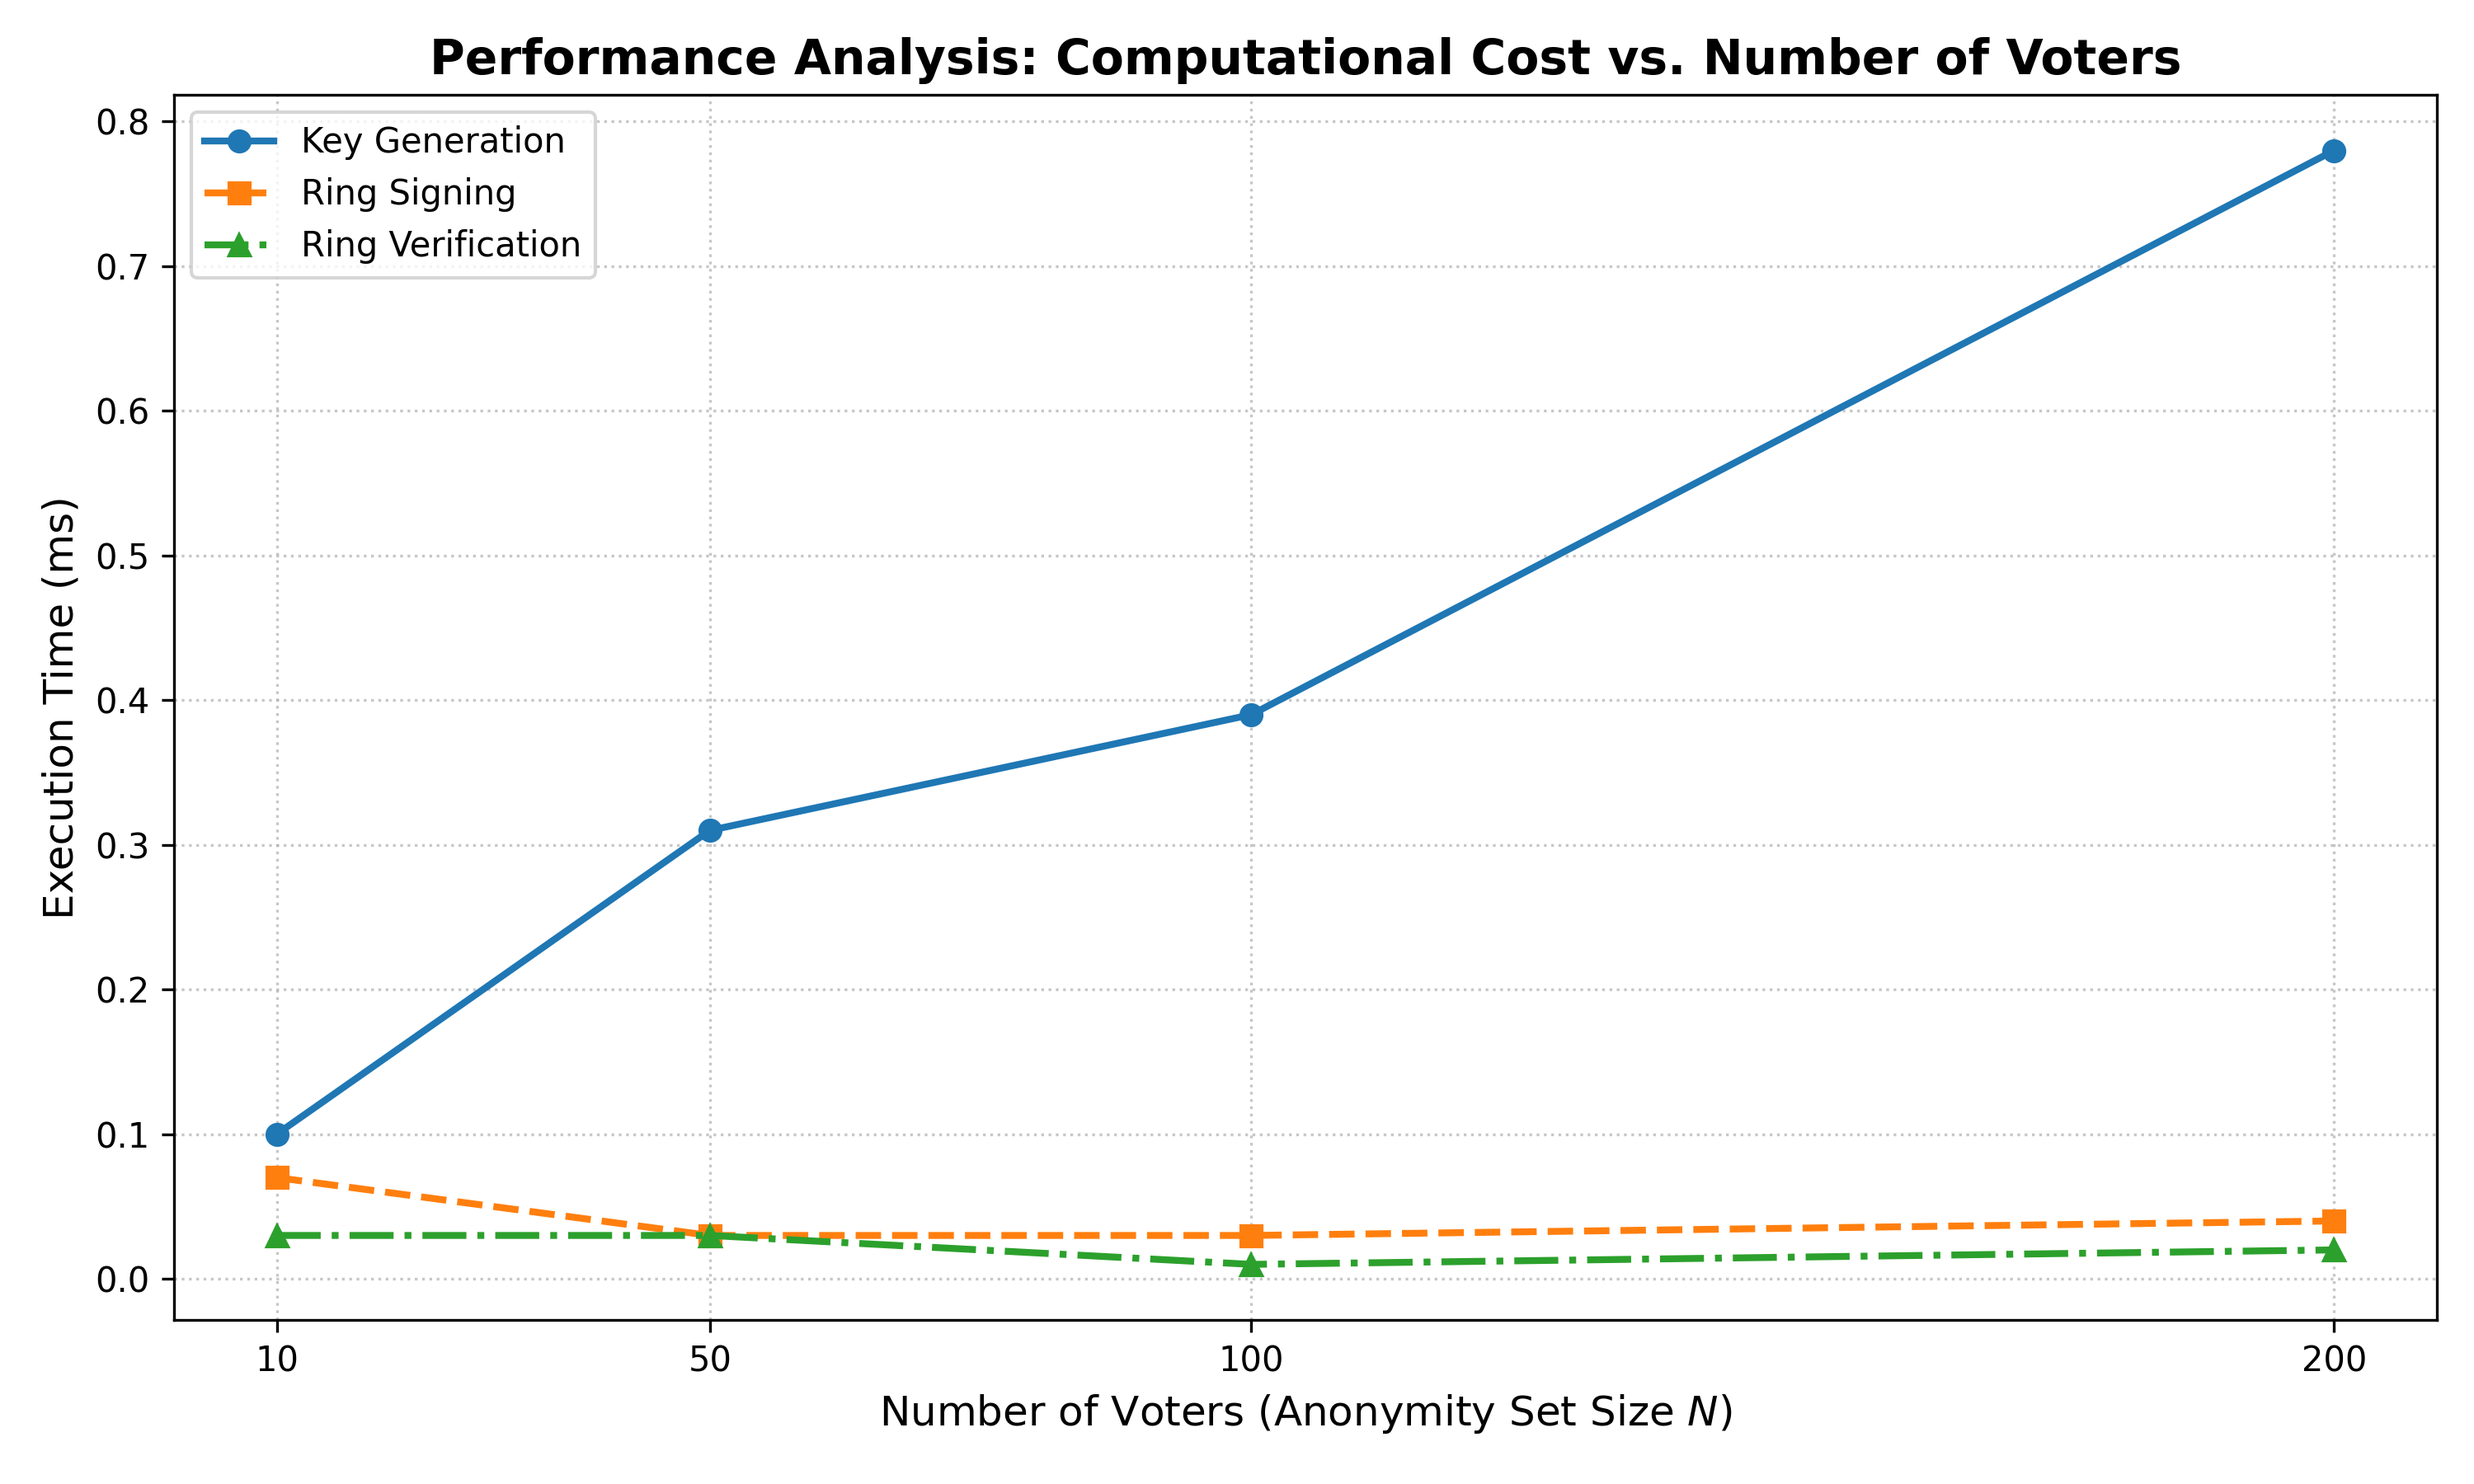
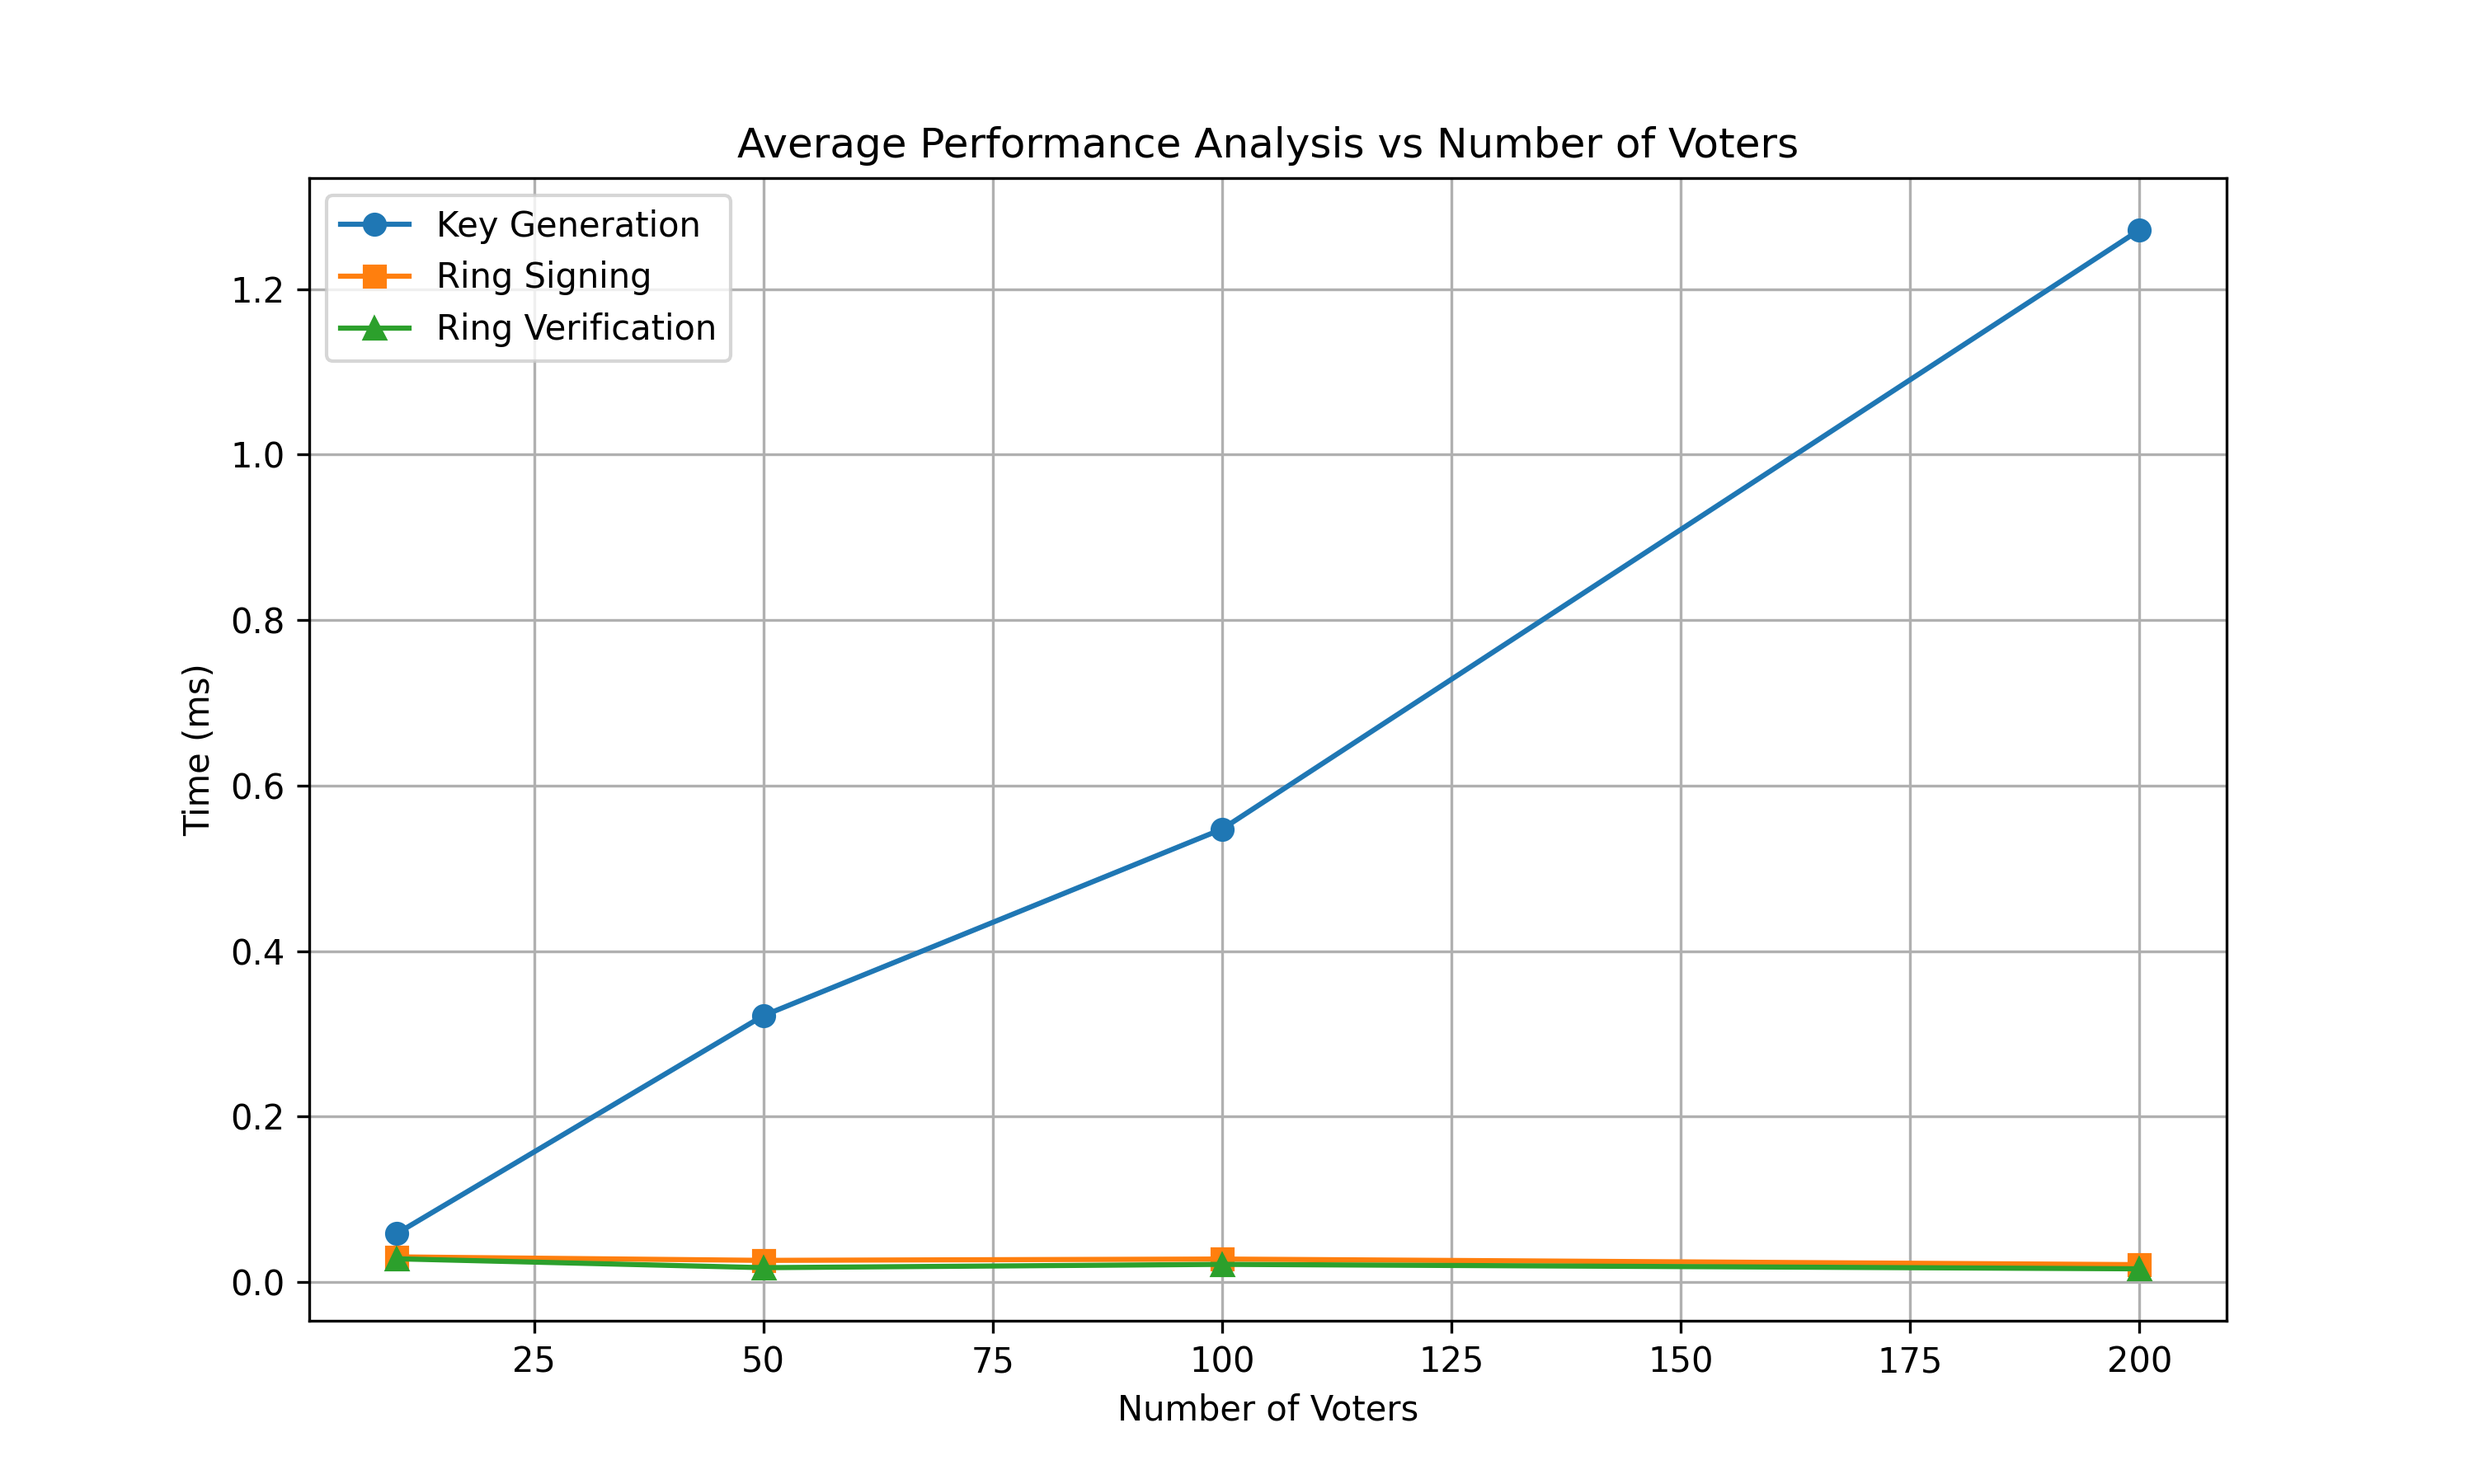
Updated README with diagrams

diff --git a/result_main.py b/result_main.py
@@ -1,0 +1,119 @@
+import time
+import matplotlib.pyplot as plt
+
+# ✅ IMPORT FROM CORRECT FILE
+from ring_signature import generate_voter_keypair, ring_sign, ring_verify, hash_mod_p
+
+
+# ---------------- BENCHMARK WITH AVERAGING ----------------
+def benchmark(voter_counts, runs=5):
+    results = []
+
+    for count in voter_counts:
+        print(f"Benchmarking {count} voters...")
+
+        kg_list, sg_list, sv_list = [], [], []
+
+        for _ in range(runs):
+
+            # 1. Key Generation
+            start = time.perf_counter()
+            keys = [generate_voter_keypair() for _ in range(count)]
+            pks = [k[1] for k in keys]
+            kg_list.append((time.perf_counter() - start) * 1000)
+
+            # 2. Signature Generation
+            msg_hash = hash_mod_p("sample_vote")
+            start = time.perf_counter()
+            sig = ring_sign(msg_hash, pks, 0, keys[0][0])
+            sg_list.append((time.perf_counter() - start) * 1000)
+
+            # 3. Verification
+            start = time.perf_counter()
+            ring_verify(msg_hash, sig, pks)
+            sv_list.append((time.perf_counter() - start) * 1000)
+
+        # ✅ AVERAGE TIMES
+        avg_kg = sum(kg_list) / runs
+        avg_sg = sum(sg_list) / runs
+        avg_sv = sum(sv_list) / runs
+
+        results.append({
+            "voters": count,
+            "keygen": avg_kg,
+            "sign": avg_sg,
+            "verify": avg_sv,
+            "total": avg_kg + avg_sg + avg_sv
+        })
+
+    return results
+
+
+# ---------------- RUN ----------------
+voter_counts = [10, 50, 100, 200]
+results = benchmark(voter_counts, runs=5)
+
+
+# ---------------- PRINT RESULTS ----------------
+print("\nBenchmark Results:")
+for r in results:
+    print(r)
+
+
+# ---------------- EXTRACT ----------------
+voters = [r["voters"] for r in results]
+keygen_time = [r["keygen"] for r in results]
+sign_time = [r["sign"] for r in results]
+verify_time = [r["verify"] for r in results]
+total_time = [r["total"] for r in results]
+
+
+# ---------------- GRAPH 1 ----------------
+plt.figure(figsize=(10, 6))
+
+plt.plot(voters, keygen_time, label='Key Generation', marker='o')
+plt.plot(voters, sign_time, label='Ring Signing', marker='s')
+plt.plot(voters, verify_time, label='Ring Verification', marker='^')
+
+plt.title('Average Performance Analysis vs Number of Voters')
+plt.xlabel('Number of Voters')
+plt.ylabel('Time (ms)')
+plt.grid(True)
+plt.legend()
+
+plt.savefig('performance_analysis.png', dpi=300)
+plt.show()
+
+
+# ---------------- GRAPH 2 ----------------
+plt.figure(figsize=(10, 6))
+
+plt.plot(voters, total_time, label='Total Execution Time', marker='D')
+
+plt.title('Average Total Execution Time vs Voters')
+plt.xlabel('Number of Voters')
+plt.ylabel('Time (ms)')
+plt.grid(True)
+plt.legend()
+
+plt.savefig('total_execution_time.png', dpi=300)
+plt.show()
+
+
+# ---------------- GRAPH 3 (NEW: TIME PER VOTER) ----------------
+plt.figure(figsize=(10, 6))
+
+time_per_voter = [t / v for t, v in zip(total_time, voters)]
+
+plt.plot(voters, time_per_voter, marker='o', linewidth=2)
+
+plt.title('Average Time per Voter vs Number of Voters')
+plt.xlabel('Number of Voters')
+plt.ylabel('Time per Voter (ms)')
+plt.grid(True)
+
+plt.savefig('time_per_voter.png', dpi=300)
+plt.show()
+
+
+print("All graphs generated successfully ✅")

diff --git a/result.py b/result.py
@@ -1,0 +1,89 @@
+import time
+import matplotlib.pyplot as plt
+
+# ✅ IMPORT FROM CORRECT FILE
+from ring_signature import generate_voter_keypair, ring_sign, ring_verify, hash_mod_p
+
+
+def benchmark(voter_counts):
+    results = []
+
+    for count in voter_counts:
+        print(f"Benchmarking {count} voters...")
+
+        # 1. Key Generation Time
+        start = time.perf_counter()
+        keys = [generate_voter_keypair() for _ in range(count)]
+        pks = [k[1] for k in keys]
+        end = time.perf_counter()
+        kg_time = (end - start) * 1000
+
+        # 2. Signature Generation Time
+        msg_hash = hash_mod_p("sample_vote")
+
+        start = time.perf_counter()
+        sig = ring_sign(msg_hash, pks, 0, keys[0][0])
+        end = time.perf_counter()
+        sg_time = (end - start) * 1000
+
+        # 3. Verification Time
+        start = time.perf_counter()
+        ring_verify(msg_hash, sig, pks)
+        end = time.perf_counter()
+        sv_time = (end - start) * 1000
+
+        results.append({
+            "voters": count,
+            "keygen": kg_time,
+            "sign": sg_time,
+            "verify": sv_time,
+            "total": kg_time + sg_time + sv_time
+        })
+
+    return results
+
+
+# ---------------- RUN ----------------
+voter_counts = [10, 50, 100, 200]
+results = benchmark(voter_counts)
+
+# ---------------- EXTRACT ----------------
+voters = [r["voters"] for r in results]
+keygen_time = [r["keygen"] for r in results]
+sign_time = [r["sign"] for r in results]
+verify_time = [r["verify"] for r in results]
+total_time = [r["total"] for r in results]
+
+
+# ---------------- GRAPH 1 ----------------
+plt.figure(figsize=(10, 6))
+
+plt.plot(voters, keygen_time, label='Key Generation', marker='o')
+plt.plot(voters, sign_time, label='Ring Signing', marker='s')
+plt.plot(voters, verify_time, label='Ring Verification', marker='^')
+
+plt.title('Performance Analysis vs Number of Voters')
+plt.xlabel('Number of Voters')
+plt.ylabel('Time (ms)')
+plt.grid(True)
+plt.legend()
+
+plt.savefig('performance_analysis.png', dpi=300)
+plt.show()
+
+
+# ---------------- GRAPH 2 ----------------
+plt.figure(figsize=(10, 6))
+
+plt.plot(voters, total_time, label='Total Execution Time', marker='D')
+
+plt.title('Total Execution Time vs Voters')
+plt.xlabel('Number of Voters')
+plt.ylabel('Time (ms)')
+plt.grid(True)
+plt.legend()
+
+plt.savefig('total_execution_time.png', dpi=300)
+plt.show()
+
+print("Graphs generated successfully ✅")
